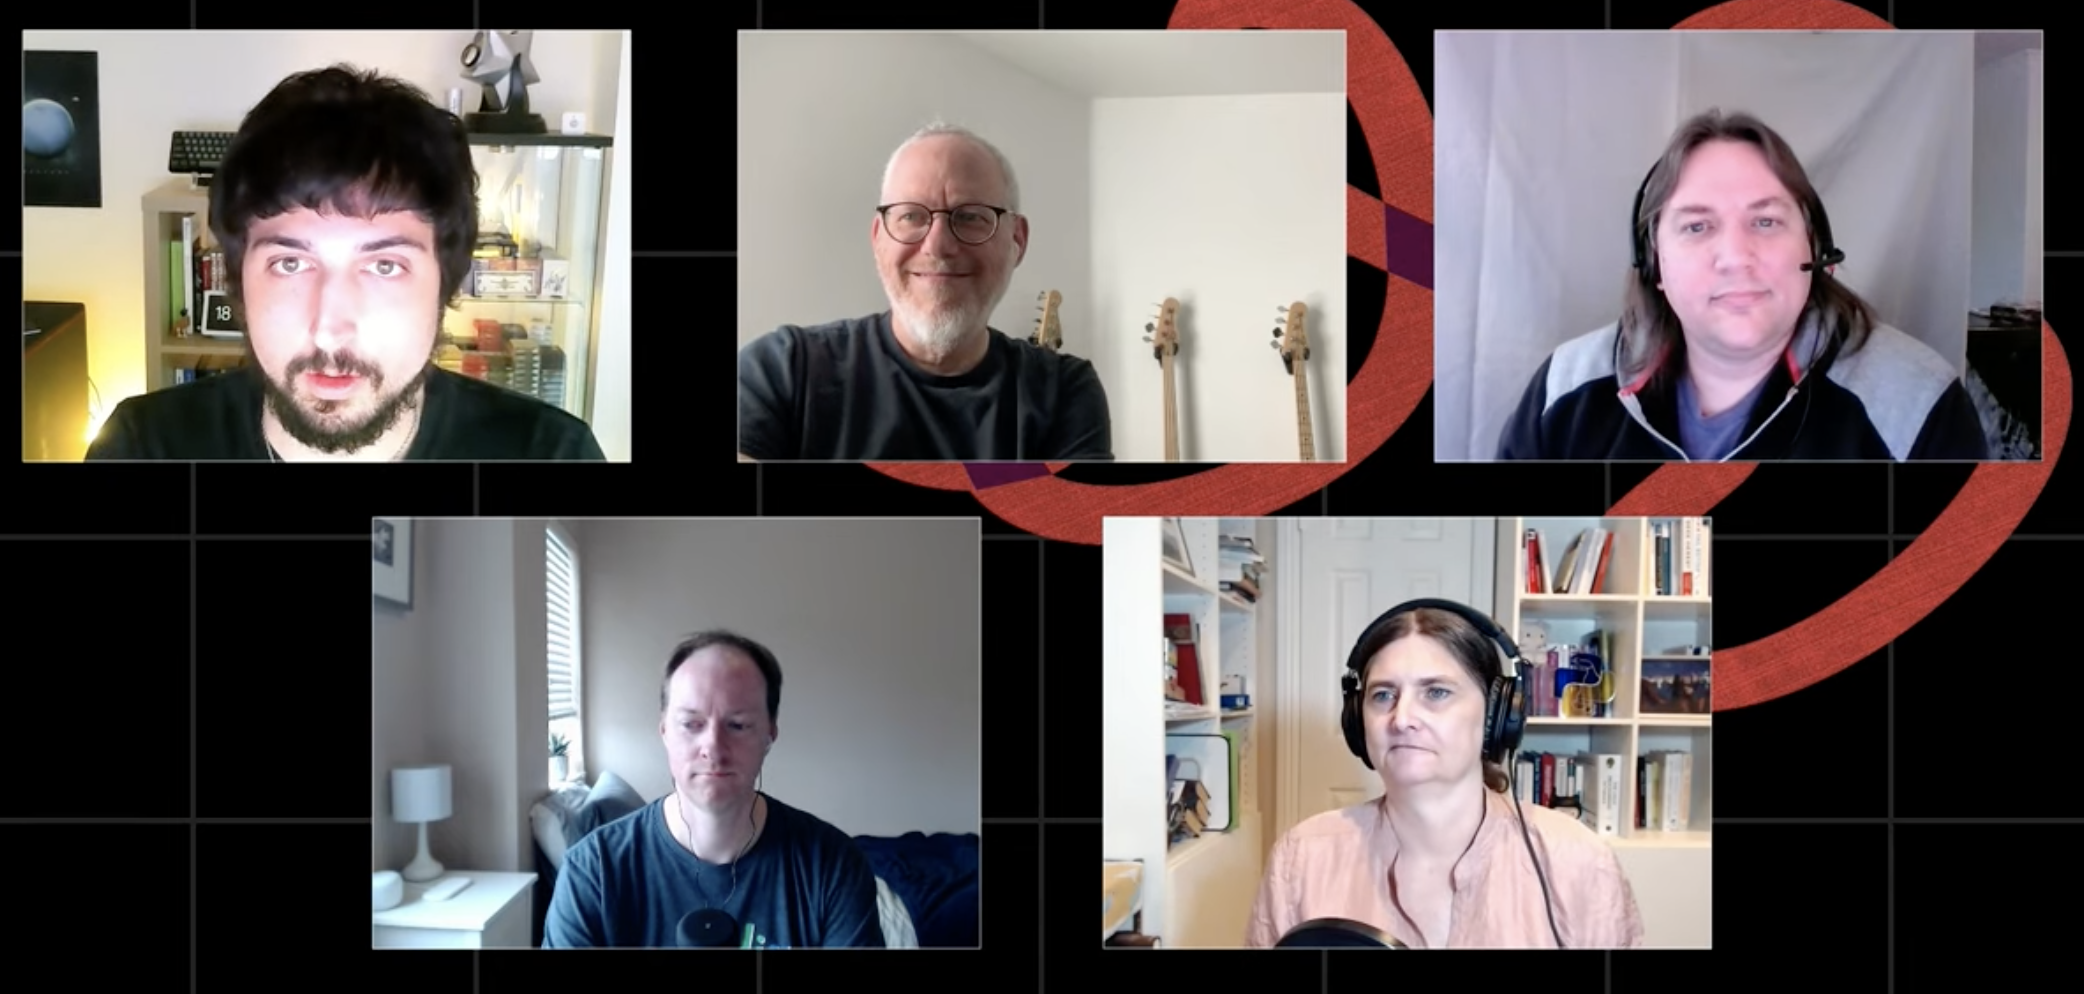
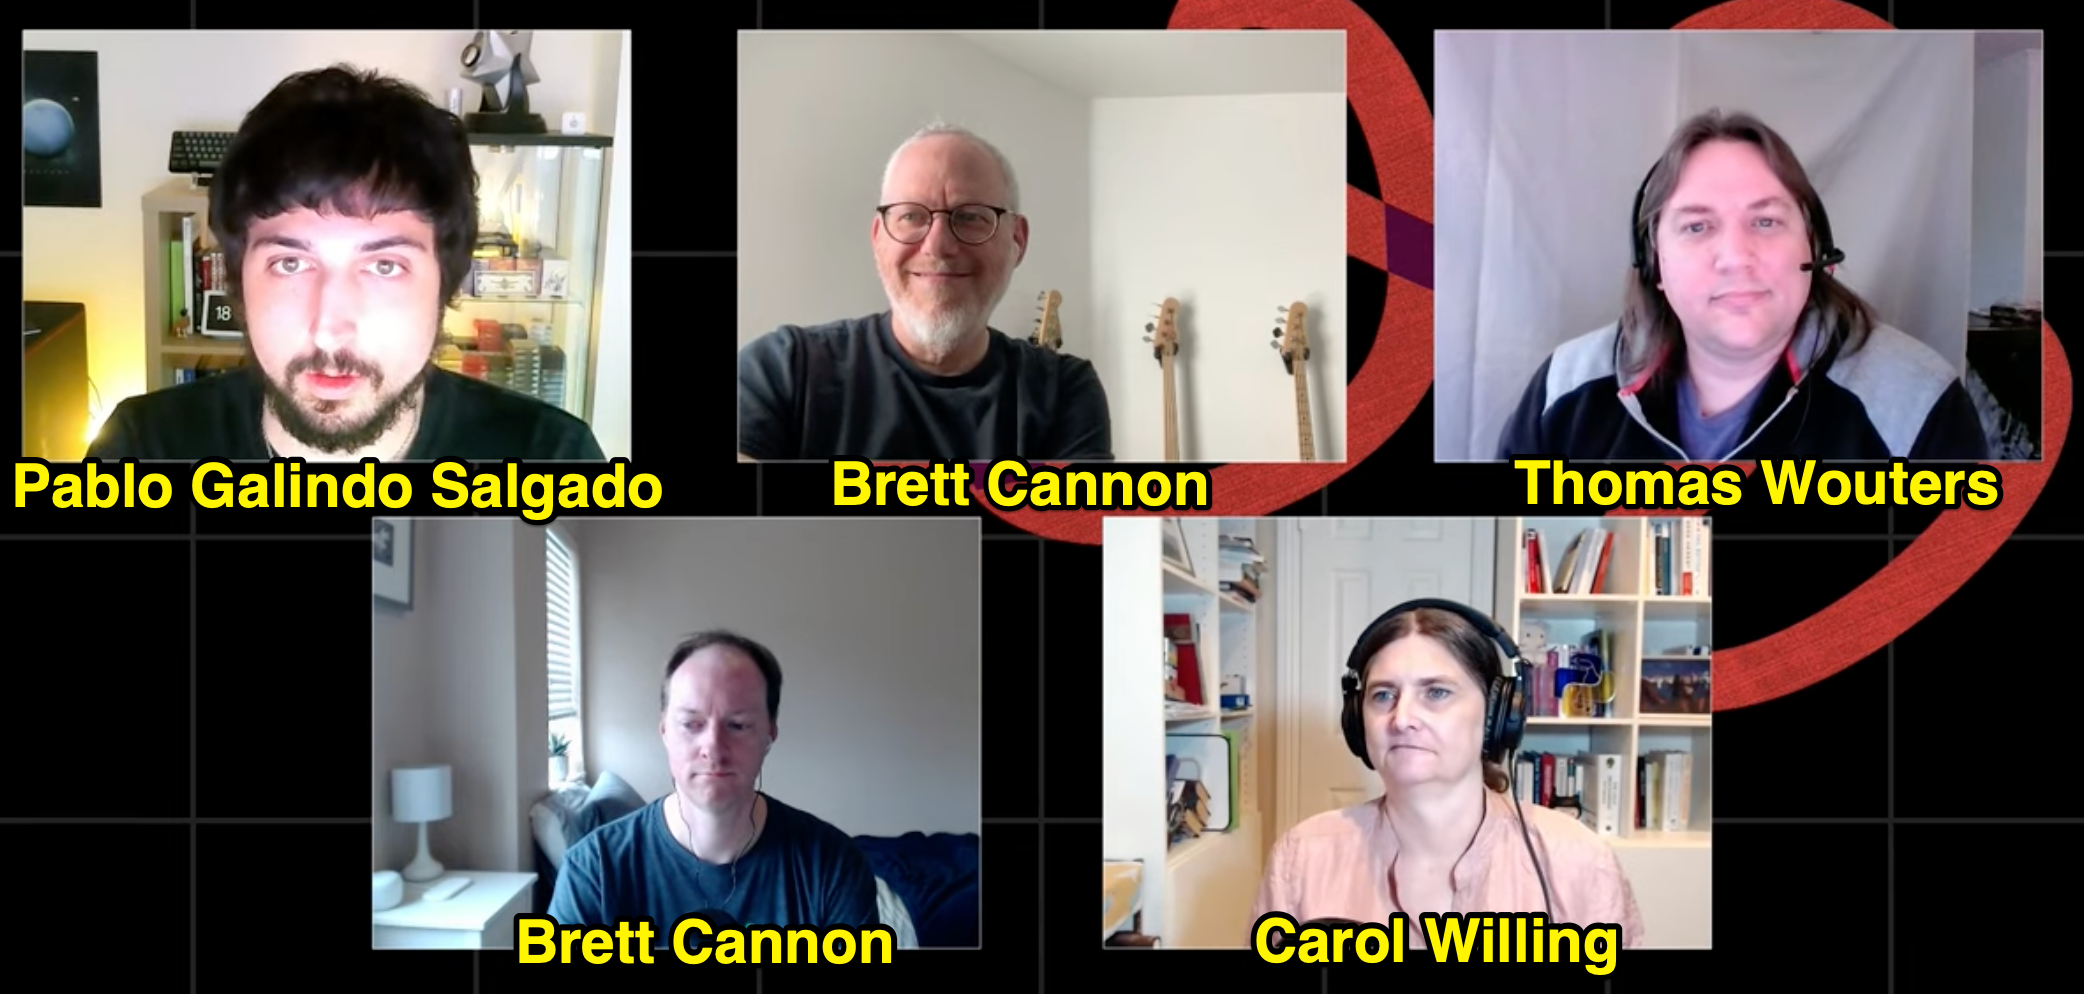
refs #33 update slides

diff --git a/20210825ossx/index.rst b/20210825ossx/index.rst
@@ -8,11 +8,11 @@ Takanori Suzuki
 
 今日話すこと 🗣
 ===============
-* Pythonとは(5分)
-* Pythonの旬なプロジェクト(5分)
-* Python開発の歴史(5分)
-* Python言語アップデート(10分)
-* Pythonの未来(5分)
+* Pythonとは
+* Pythonの旬なプロジェクト
+* Python開発の歴史
+* Python言語アップデート
+* Pythonの未来
 
 スクショ 📸 ツイート 🐦 👍
 ==========================
@@ -25,20 +25,20 @@ Takanori Suzuki
 最初に質問
 ==========
 
-Python知ってる人🙋♂
----------------------
+Python知ってる人 🙋♂
+----------------------
 
-Python使ったことある人🙋♀
----------------------------
+Python使ったことある人 🙋♀
+----------------------------
 
-Python今使っている人🙋♂
--------------------------
+Python今使っている人 🙋♂
+--------------------------
 
 Who am I(お前誰よ) 👤
 =====================
 * 鈴木たかのり(`@takanory <https://twitter.com/takanory>`_)
-* PyCon JP Association 副代表理事
-* 株式会社BeProud 役員/Python Climber
+* `PyCon JP Association <https://www.pycon.jp/>`_ 副代表理事
+* `株式会社BeProud <https://www.beproud.jp/>`_ 役員/Python Climber
 * 好き：フェレット、🍺、LEGO／趣味：🎺、🧗
 
 .. image:: /assets/images/sokidan-square.jpg
@@ -52,7 +52,7 @@ Pythonとは 🐍
 
   * 動的型付け
 * 1991年に0.9がリリース
-* 最新バージョンは3.9.6
+* 最新バージョンは **3.9.6**
 * Python 2系は2020年1月1日にEOL
 
 読みやすい構文
@@ -60,7 +60,7 @@ Pythonとは 🐍
 * インデントが構文
 * **PEP 8** というコーディング規約
 
-  * https://www.python.org/dev/peps/pep-0008/
+  * `PEP 8 -- Style Guide for Python Code <https://www.python.org/dev/peps/pep-0008/>`_
 
 .. code-block:: python
 
@@ -91,13 +91,13 @@ Pythonリリースの歴史
 豊富な標準ライブラリ
 --------------------
 * 標準ライブラリでいろいろできる
-* 「バッテリー同梱」とも言われる
+* **バッテリー同梱** とも言われる
 * ただ多すぎて使われてなさそうなものも...
-* https://docs.python.org/ja/3/library/
+* 公式ドキュメント: `Python 標準ライブラリ <https://docs.python.org/ja/3/library/>`_
 
 豊富なサードパーティライブラリ
 --------------------------------
-* PyPI(https://pypi.org/)からインストール
+* `PyPI <https://pypi.org/>`_ (パイピーアイ)からインストール
 
   * ``$ pip install パッケージ名``
 
@@ -115,7 +115,7 @@ Pythonリリースの歴史
 
 .. revealjs-break::
 
-* Awesome Python(https://awesome-python.com/)
+* `Awesome Python <https://awesome-python.com/>`_ (`GitHub <https://github.com/vinta/awesome-python/>`__)
 
 .. image:: images/awesome-python.png
    :width: 80%
@@ -134,7 +134,7 @@ Pythonとは 🐍 - まとめ
 ----------------------
 * 読みやすい構文
 * 後方互換性を維持
-* 豊富な標準ライブラリ、サードパーティ
+* 豊富な標準ライブラリ、サードパーティライブラリ
 
 Pythonの旬なプロジェクト 🔥
 ===========================
@@ -143,7 +143,7 @@ Pythonの旬なプロジェクト 🔥
 FastAPI
 -------
 * API構築のための高速なWebフレームワーク
-* URL: https://fastapi.tiangolo.com/ja/
+* https://fastapi.tiangolo.com/ja/
 
 .. image:: images/fastapi.png
    :width: 70%
@@ -203,7 +203,7 @@ Python開発の歴史 🕰
 
 Pythonの拡張はPEPで提案
 -----------------------
-* PEP: Python Enhancement Proposal
+* **PEP**: Python Enhancement Proposal
 * 2000年頃から運用
 
   * PEPを書いて提案
@@ -213,21 +213,25 @@ Pythonの拡張はPEPで提案
 
 BDFL: 優しい終身の独裁者
 ------------------------
-* BDFLが採用不採用を最終決定
+* **BDFL** が採用/不採用を最終決定
 
   * BDFL = Guido van Rossum
-  * BDFL Delegateで他の人に判断を委譲可能
+  * BDFL Delegatesで他の人に判断を委譲可能
+
+.. image:: https://pbs.twimg.com/profile_images/424495004/GuidoAvatar_400x400.jpg
+   :alt: Guido van Rossum
 
 BDFLの引退
 ----------
-* 2018年7月にBDFLを引退するというメールを送信
+* 2018年7月にBDFLを引退するメールを送信
 
-  * `[python-committers] Transfer of power <https://mail.python.org/pipermail/python-committers/2018-July/005664.html>`_
-* セイウチ演算子ですごいもめたのがきっかけ?
+  * `Transfer of power - python-committers <https://mail.python.org/archives/list/python-committers@python.org/thread/GQONAGWBBFRHVRUPU7RNBM75MHKGUFJN/>`_
+* セイウチ演算子(``:=``)でもめたのがきっかけか?
 
   * `PEP 572 -- Assignment Expressions <https://www.python.org/dev/peps/pep-0572/>`_
 
 .. revealjs-break::
+   :notitle:
 
 .. image:: images/transfer-of-power.png
    :width: 80%
@@ -243,17 +247,25 @@ Pythonの新しい運営モデル
 
 The Steering Council Model
 --------------------------
-* 毎年5名のCouncilメンバーを投票で決める
-* CouncilメンバーがPEPの採用不採用を決定
+* 毎年5名のCouncil membersを投票で決める
+* Council membersがPEPの採用/不採用を決定
 * 2019年はGuidoがいたが、2020以降は立候補していない
-* 投票結果: `2019 <https://www.python.org/dev/peps/pep-8100/>`_, `2020 <https://www.python.org/dev/peps/pep-8101/>`_, `2021 <https://www.python.org/dev/peps/pep-8102/>`_
+* 投票結果: `2019(PEP 8100) <https://www.python.org/dev/peps/pep-8100/>`_, `2020(PEP 8101) <https://www.python.org/dev/peps/pep-8101/>`_, `2021(PEP 8102) <https://www.python.org/dev/peps/pep-8102/>`_
 
-2021 Councilメンバー
---------------------
-* C.Willing, T.Wouters, B.Cannon, P.Galindo Salgado, B.Warsaw
+2021 Council member
+-------------------
+P.Galindo Salgado, B.Cannon,  T.Wouters
+
+C.Willing, B.Warsaw
 
 .. image:: images/council.png
    :width: 80%
+
+Python Steering CouncilのKeynote
+--------------------------------
+.. raw:: html
+
+   <iframe width="800" height="450" src="https://www.youtube.com/embed/xEkuOtCQ6vA" title="YouTube video player" frameborder="0" allow="accelerometer; autoplay; clipboard-write; encrypted-media; gyroscope; picture-in-picture" allowfullscreen></iframe>
 
 Python開発の歴史 🕰 - まとめ
 ---------------------------
@@ -322,7 +334,7 @@ Python言語アップデート 🆕
 
 3.6: フォーマット済み文字列リテラル
 -----------------------------------
-* f-stringともいう
+* **f-string** ともいう
 * ``f'{式}や{式:書式}'``
 
 .. code-block:: python
@@ -338,7 +350,7 @@ Python言語アップデート 🆕
 
 3.7: データクラス
 -----------------
-* ``@dataclass`` デコレータで作れる
+* ``@dataclass`` デコレーターで作れる
 
 .. code-block:: python
 
@@ -357,7 +369,7 @@ Python言語アップデート 🆕
 3.8: 代入式
 -----------
 * ``:=`` 演算子: 変数に値を入れて、その値を返す
-* 別名「セイウチ演算子」
+* 別名: **セイウチ演算子** (Walrus Operator)
 
 .. code-block:: python
 
@@ -392,7 +404,7 @@ Python言語アップデート 🆕
   
 型ヒント
 --------
-* 動的型付け言語だが型ヒントが付けられる
+* 動的型付け言語だが **型ヒント** が付けられる
 
   * Python 3.5から導入
   * `PEP 484 -- Type Hints <https://www.python.org/dev/peps/pep-0484/>`_
@@ -440,14 +452,13 @@ Python言語アップデート 🆕
 
 .. raw:: html
 
-   <iframe width="560" height="315" src="https://www.youtube.com/embed/2sZ9U1iIscQ" title="YouTube video player" frameborder="0" allow="accelerometer; autoplay; clipboard-write; encrypted-media; gyroscope; picture-in-picture" allowfullscreen></iframe>
+   <iframe width="800" height="450" src="https://www.youtube.com/embed/2sZ9U1iIscQ" title="YouTube video player" frameborder="0" allow="accelerometer; autoplay; clipboard-write; encrypted-media; gyroscope; picture-in-picture" allowfullscreen></iframe>
 
 Python 3.10の主な新機能
 -----------------------
 * `What's New In Python 3.10 <https://docs.python.org/ja/3.10/whatsnew/3.10.html>`_
-
-  * Better error messages
-  * Structural Pattern Matching
+* Better error messages
+* Structural Pattern Matching
 
 Better error messages
 ---------------------
@@ -467,9 +478,10 @@ Better error messages
      File "<stdin>", line 1
        if name = 'takanori':
           ^^^^^^^^^^^^^^^^^
-   SyntaxError: invalid syntax. Maybe you meant '==' or ':=' instead of '='?
+   SyntaxError: invalid syntax. Maybe you meant '==' or ':='
+   instead of '='?
 
-* もしかして '=' ではなく '==' や ':=' の意味では?
+* 「たぶん、 ``=`` ではなく ``==`` や ``:=`` の意味では?」
 
 .. revealjs-break::
 
@@ -491,9 +503,10 @@ Better error messages
      File "<stdin>", line 2
        print(i)
        ^
-   IndentationError: expected an indented block after 'for' statement on line 1
+   IndentationError: expected an indented block after 'for'
+   statement on line 1
 
-* 1行目の 'for' 文のあとにインデントされたブロックが必要です
+* 「1行目の ``for`` のあとにインデントが必要」
 
 Structural Pattern Matching
 ---------------------------
@@ -545,6 +558,21 @@ Structural Pattern Matching
            print(f"X={x}, Y={y}")
        case _:
            raise ValueError("Not a point")
+
+.. revealjs-break::
+
+* インスタンスの型でマッチ
+
+.. code-block:: python
+
+   def dump(node: Node) -> str:
+       match node:
+           case Assignment(target, value):
+               return f"{target} = {dump(value)}"
+           case Print(value):
+               return f"print({dump(value)})"
+           case Operation(left, op, right):
+               return f"({dump(left)} {op} {dump(right)})"  
 
 Structural Pattern Matching - 参考情報
 --------------------------------------
@@ -602,7 +630,7 @@ Microsoftのサポート
 * Guido氏はDropboxを去って引退
 
   * `Thank you, Guido | Dropbox Blog <https://blog.dropbox.com/topics/company/thank-you--guido>`_
-* しかしコロナで家にいるのがつまらない
+* しかしパンデミックで家にいてつまらない
 * Microsoftに応募して採用された
 * 自由にプロジェクトが選べる  
 * Pythonの高速化を進める
